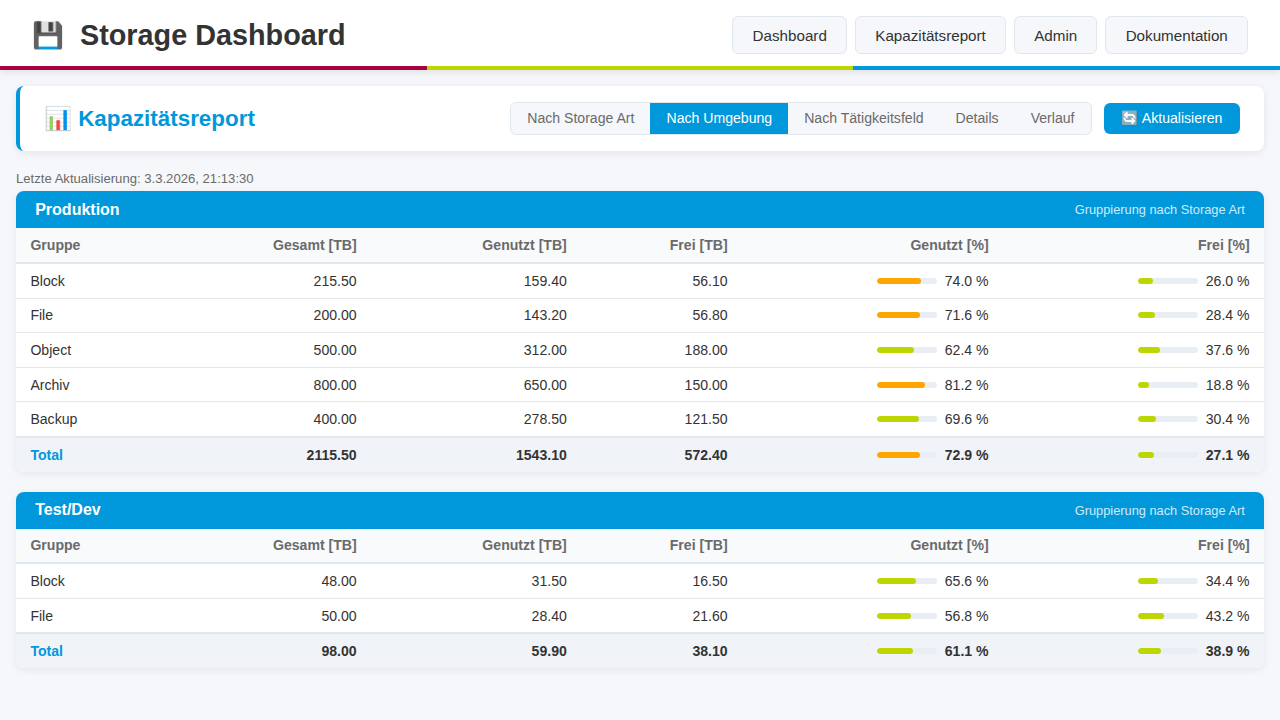
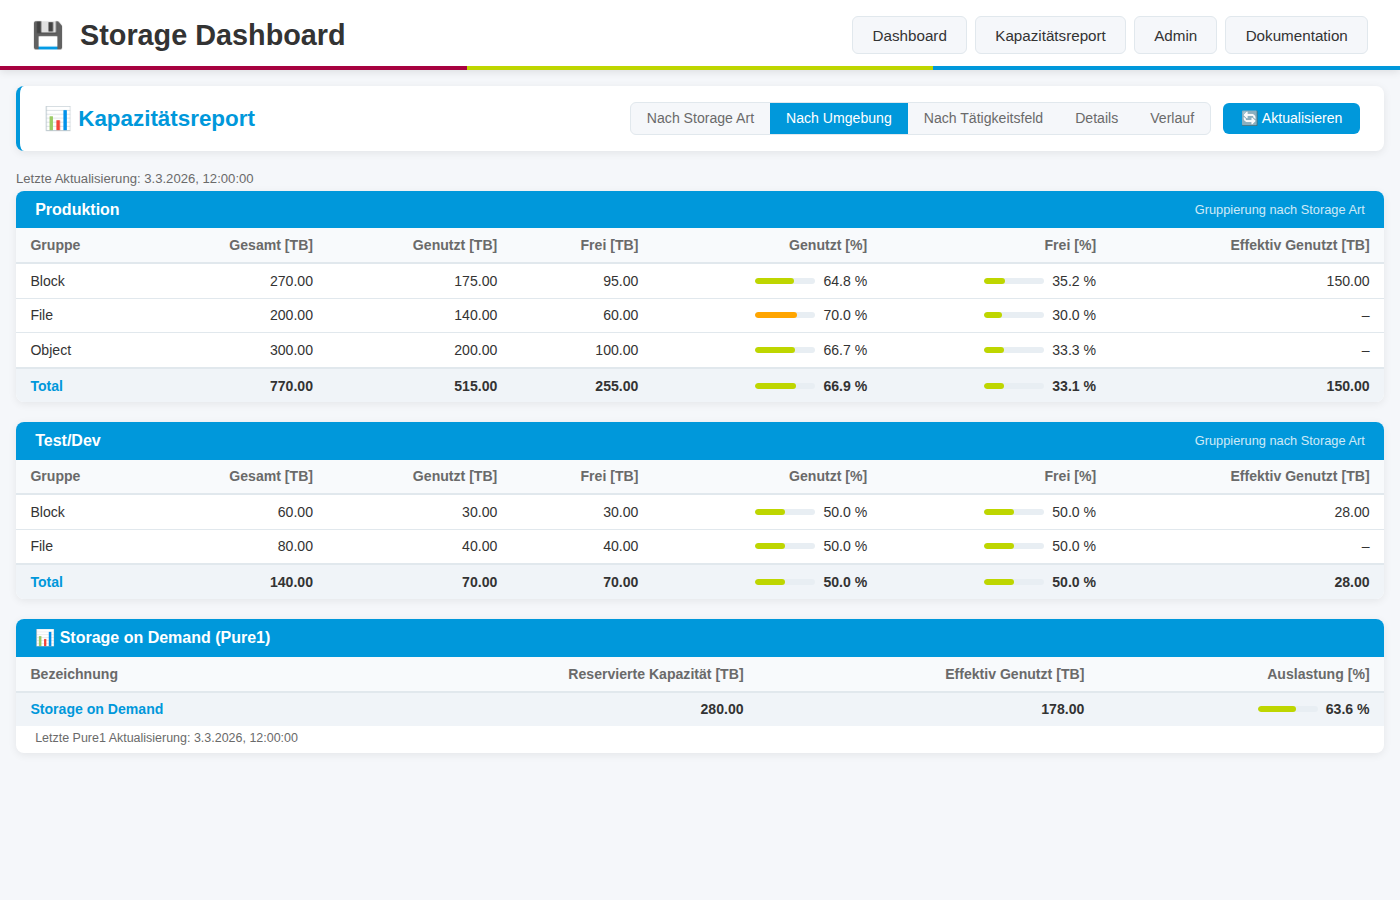
Kapazitätsseite: SoD-Zusammenfassung in Übersichtstabs; per-Zeile Effektiv-Genutzt; Screenshots aktualisiert

diff --git a/app/templates/capacity.html b/app/templates/capacity.html
@@ -494,16 +494,126 @@ function getSodResourceMap() {
     return map;
 }
 
-function buildSection(title, subtitle, rows, totalRow, sodEffectiveUsedTb) {
+/**
+ * Build per-row effective used maps from SoD resource data matched to dashboard systems.
+ * Uses capacityData.details (system names per art/env) and getSodResourceMap().
+ * Returns { byArtEnv: {art: {env: tb}}, byEnvArt: {env: {art: tb}}, byDeptLabel: {dept: {'env – art': tb}} }
+ */
+function buildSodEffUsedMaps() {
+    const empty = { byArtEnv: {}, byEnvArt: {}, byDeptLabel: {} };
+    if (!capacityData?.details || !sodData?.items || sodData.items.length === 0) return empty;
+    const sodResMap = getSodResourceMap();
+    const { byArtEnv, byEnvArt, byDeptLabel } = empty;
+
+    for (const artGroup of capacityData.details) {
+        const art = artGroup.storage_art;
+        for (const sys of artGroup.systems) {
+            const effTb = sodResMap[(sys.system_name || '').toLowerCase()];
+            if (effTb == null) continue;
+            const envs = (sys.environment || '').split(', ').filter(s => s.length > 0);
+            const depts = (sys.department || '').split(', ').filter(s => s.length > 0);
+            const envList = envs.length ? envs : ['Unbekannt'];
+            const deptList = depts.length ? depts : ['Sonstige'];
+
+            if (!byArtEnv[art]) byArtEnv[art] = {};
+            for (const env of envList) {
+                byArtEnv[art][env] = (byArtEnv[art][env] || 0) + effTb;
+            }
+            for (const env of envList) {
+                if (!byEnvArt[env]) byEnvArt[env] = {};
+                byEnvArt[env][art] = (byEnvArt[env][art] || 0) + effTb;
+            }
+            for (const dept of deptList) {
+                if (!byDeptLabel[dept]) byDeptLabel[dept] = {};
+                for (const env of envList) {
+                    const label = `${env} \u2013 ${art}`;
+                    byDeptLabel[dept][label] = (byDeptLabel[dept][label] || 0) + effTb;
+                }
+            }
+        }
+    }
+    return { byArtEnv, byEnvArt, byDeptLabel };
+}
+
+/**
+ * Build a simple SoD summary section showing one accumulated row:
+ * Reserved Capacity, Effective Used, and utilization percentage.
+ * Only the high-level totals are shown; contract/array details stay in the Details tab.
+ */
+function buildSodSummarySection(sodDataArg) {
+    let bodyHtml = '';
+    if (!sodDataArg) return '';
+
+    if (sodDataArg.error && (!sodDataArg.items || sodDataArg.items.length === 0)) {
+        bodyHtml = `<div class="sod-error-box">⚠ Fehler beim letzten Abruf: ${escHtml(sodDataArg.error)}</div>`;
+    } else if (!sodDataArg.items || sodDataArg.items.length === 0) {
+        bodyHtml = '<div style="padding:.5rem 1.2rem;color:var(--cap-muted);font-size:.85rem;">Keine SoD-Lizenzdaten vorhanden.</div>';
+    } else {
+        let totalReserved = 0, totalEffective = 0;
+        for (const it of sodDataArg.items) {
+            totalReserved += it.reservation?.data || 0;
+            totalEffective += it.usage?.data || 0;
+        }
+        totalReserved /= 1e12;
+        totalEffective /= 1e12;
+        const utilization = totalReserved > 0 ? (totalEffective / totalReserved * 100) : 0;
+        const ts = sodDataArg.fetched_at ? new Date(
+            sodDataArg.fetched_at.endsWith('Z') ? sodDataArg.fetched_at : sodDataArg.fetched_at + 'Z'
+        ).toLocaleString('de-DE') : null;
+
+        bodyHtml = `<div class="cap-table-wrap">
+            <table class="cap-table">
+                <thead><tr>
+                    <th>Bezeichnung</th>
+                    <th>Reservierte Kapazität [TB]</th>
+                    <th>Effektiv Genutzt [TB]</th>
+                    <th>Auslastung [%]</th>
+                </tr></thead>
+                <tbody>
+                    <tr class="total-row">
+                        <td>Storage on Demand</td>
+                        <td>${totalReserved.toFixed(2)}</td>
+                        <td>${totalEffective.toFixed(2)}</td>
+                        <td>${pctBarHtml(utilization)}</td>
+                    </tr>
+                </tbody>
+            </table>
+        </div>`;
+        if (ts) {
+            bodyHtml += `<div style="padding:.3rem 1.2rem .5rem;font-size:.78rem;color:var(--cap-muted);">
+                Letzte Pure1 Aktualisierung: ${ts}
+            </div>`;
+        }
+    }
+    return `<div class="cap-section">
+        <div class="cap-section-header">
+            <span>📊 Storage on Demand (Pure1)</span>
+        </div>
+        ${bodyHtml}
+    </div>`;
+}
+
+function buildSection(title, subtitle, rows, totalRow, sodRowEffMap) {
     const showProvisioned = hasProvisioned(rows, totalRow);
-    const showEffectiveUsed = sodEffectiveUsedTb != null;
+
+    let showEffectiveUsed = false;
+    let effTotal = null;
+    if (pure1Configured && sodRowEffMap) {
+        let sum = 0, hasAny = false;
+        for (const r of rows) {
+            const v = sodRowEffMap[r.label];
+            if (v != null) { sum += v; hasAny = true; }
+        }
+        if (hasAny) { effTotal = sum; showEffectiveUsed = true; }
+    }
+
     const rowsHtml = rows.map(r => rowHtml(
         r.label, r, false, showProvisioned,
-        showEffectiveUsed, null   // column visible but no value for sub-rows
+        showEffectiveUsed, sodRowEffMap ? (sodRowEffMap[r.label] ?? null) : null
     )).join('');
     const totalHtml = rowHtml(
         'Total', totalRow, true, showProvisioned,
-        showEffectiveUsed, showEffectiveUsed ? sodEffectiveUsedTb : null
+        showEffectiveUsed, effTotal
     );
     return `<div class="cap-section">
         <div class="cap-section-header">
@@ -622,35 +732,45 @@ function renderByStorageArt(data) {
         el.innerHTML = '<div class="cap-empty">Keine Daten verfügbar. Bitte Systeme konfigurieren und Aktualisierung abwarten.</div>';
         return;
     }
-    const sodTotal = getSodTotalEffectiveUsedTb();
-    el.innerHTML = data.map(g => {
-        const isBlock = g.storage_art === 'Block';
-        const effUsed = (isBlock && pure1Configured) ? sodTotal : null;
+    const effMaps = buildSodEffUsedMaps();
+    let html = data.map(g => {
+        const sodRowEffMap = pure1Configured ? (effMaps.byArtEnv[g.storage_art] || null) : null;
         const showProvisioned = hasProvisioned(g.rows, g.total);
-        const showEffectiveUsed = effUsed != null;
+
+        let showEffectiveUsed = false;
+        let effTotal = null;
+        if (sodRowEffMap) {
+            let sum = 0, hasAny = false;
+            for (const r of g.rows) {
+                const v = sodRowEffMap[r.label];
+                if (v != null) { sum += v; hasAny = true; }
+            }
+            if (hasAny) { effTotal = sum; showEffectiveUsed = true; }
+        }
+
         const rowsHtml = g.rows.map(r => rowHtml(
             r.label, r, false, showProvisioned,
-            showEffectiveUsed, null
+            showEffectiveUsed, sodRowEffMap ? (sodRowEffMap[r.label] ?? null) : null
         )).join('');
         const totalHtml = rowHtml(
             'Total', g.total, true, showProvisioned,
-            showEffectiveUsed, showEffectiveUsed ? effUsed : null
+            showEffectiveUsed, effTotal
         );
-        const tableHtml = `<div class="cap-table-wrap">
-            <table class="cap-table">
-                ${tableHeader('Gruppe', showProvisioned, showEffectiveUsed)}
-                <tbody>${rowsHtml}${totalHtml}</tbody>
-            </table>
-        </div>`;
-        const sodHtml = (isBlock && pure1Configured) ? buildSodSubTable(sodData) : '';
         return `<div class="cap-section">
             <div class="cap-section-header">
                 <span>${escHtml(g.storage_art)}</span>
                 <span class="section-subtitle">Gruppierung nach Betriebsumgebung</span>
             </div>
-            ${tableHtml}${sodHtml}
+            <div class="cap-table-wrap">
+                <table class="cap-table">
+                    ${tableHeader('Gruppe', showProvisioned, showEffectiveUsed)}
+                    <tbody>${rowsHtml}${totalHtml}</tbody>
+                </table>
+            </div>
         </div>`;
     }).join('');
+    if (pure1Configured) html += buildSodSummarySection(sodData);
+    el.innerHTML = html;
 }
 
 // ── Render: By Environment ────────────────────────────────────────────────
@@ -660,9 +780,13 @@ function renderByEnvironment(data) {
         el.innerHTML = '<div class="cap-empty">Keine Daten verfügbar.</div>';
         return;
     }
-    el.innerHTML = data.map(g =>
-        buildSection(g.environment, 'Gruppierung nach Storage Art', g.rows, g.total)
-    ).join('');
+    const effMaps = buildSodEffUsedMaps();
+    let html = data.map(g => {
+        const sodRowEffMap = pure1Configured ? (effMaps.byEnvArt[g.environment] || null) : null;
+        return buildSection(g.environment, 'Gruppierung nach Storage Art', g.rows, g.total, sodRowEffMap);
+    }).join('');
+    if (pure1Configured) html += buildSodSummarySection(sodData);
+    el.innerHTML = html;
 }
 
 // ── Render: By Department ─────────────────────────────────────────────────
@@ -672,9 +796,13 @@ function renderByDepartment(data) {
         el.innerHTML = '<div class="cap-empty">Keine Daten verfügbar.</div>';
         return;
     }
-    el.innerHTML = data.map(g =>
-        buildSection(g.department, 'Umgebung × Storage Art', g.rows, g.total)
-    ).join('');
+    const effMaps = buildSodEffUsedMaps();
+    let html = data.map(g => {
+        const sodRowEffMap = pure1Configured ? (effMaps.byDeptLabel[g.department] || null) : null;
+        return buildSection(g.department, 'Umgebung × Storage Art', g.rows, g.total, sodRowEffMap);
+    }).join('');
+    if (pure1Configured) html += buildSodSummarySection(sodData);
+    el.innerHTML = html;
 }
 
 // ── Render: Details ───────────────────────────────────────────────────────

diff --git a/README.md b/README.md
@@ -41,7 +41,7 @@ Ein Python-basiertes Dashboard zur Überwachung von Storage-Systemen verschieden
 - **Multi-Vendor Support**: Überwachung von Pure Storage, NetApp ONTAP 9, NetApp StorageGRID 11 und Dell DataDomain
 - **Web Dashboard**: Übersichtliche Card/Grid-Ansicht aller Storage-Systeme
 - **Kapazitätsreport**: Tabellarische Kapazitätsübersicht aller Systeme unter `/capacity/` – gruppiert nach Storage Art (**Block → File → Object → Archiv → Backup**), Umgebung oder Tätigkeitsfeld, mit Verlaufsgraphen und Wachstumsprognose
-- **Storage on Demand (Pure1)**: Bei konfigurierter Pure1 API wird im Block-Bereich des Kapazitätsreports eine aufklappbare Untertabelle mit Subscription-Lizenzdaten (Reserviert, Effektiv Genutzt, On Demand) angezeigt. Zusätzlich erscheint in der Block-Tabelle eine Spalte **„Effektiv Genutzt [TB]"** mit den Pure1-Effektivwerten (nach Deduplikation/Komprimierung):
+- **Storage on Demand (Pure1)**: Bei konfigurierter Pure1 API wird in allen Kapazitätsansichten (Nach Storage Art, Nach Umgebung, Nach Tätigkeitsfeld) eine kompakte SoD-Zusammenfassung angezeigt (Reservierte Kapazität, Effektiv Genutzt, Auslastung [%]). Die Kapazitätstabellen zeigen zusätzlich eine Spalte **„Effektiv Genutzt [TB]"**, die die Pure1-Effektivwerte (nach Deduplikation/Komprimierung) pro Zeile summiert. Vollständige Detailinformationen (Verträge, Lizenzen, Arrays) sind im Tab **Details** verfügbar:
   - Wöchentlich automatisch abgerufen, manuell per Knopfdruck aktualisierbar
   - Wird nur angezeigt, wenn Pure1 in den Einstellungen konfiguriert ist
 - **Pure1 API-Integration**: Konfiguration im Admin-Bereich unter **Einstellungen → API-Zugänge**; dynamische JWT-Authentifizierung (RS256) gegen die Pure1 REST API; Private Key Passphrase wird verschlüsselt gespeichert
@@ -339,20 +339,20 @@ Der Einstellungs-Bereich ist in Tabs unterteilt:
 
 Der Kapazitätsreport bietet eine umfassende tabellarische und grafische Auswertung der Speicherkapazitäten aller konfigurierten Systeme. Die Daten werden stündlich im Hintergrund aktualisiert und täglich historisch gespeichert.
 
-**6 wechselbare Ansichten:**
+**5 wechselbare Ansichten:**
 
 | Ansicht | Beschreibung |
 |---------|-------------|
-| **Nach Storage Art** | Eine Tabelle pro Storage-Typ (Block, File, Object, Archiv, Backup) mit je einer Zeile pro Betriebsumgebung (Produktion / Test/Dev) und einer Total-Zeile |
-| **Nach Umgebung** | Eine Tabelle pro Umgebung (Produktion, Test/Dev) mit Zeilen je Storage-Typ und Total |
-| **Nach Tätigkeitsfeld** | Eine Tabelle pro Abteilung/Tätigkeitsfeld (ERZ, ITS, EH …) mit Zeilen für jede Umgebung × Storage-Typ-Kombination |
-| **Details** | Alle Einzelsysteme mit Name, Umgebung, Tätigkeitsfeld und Kapazitätswerten, gruppiert nach Storage-Typ |
-| **Verlauf** | Liniendiagramme pro Storage-Typ (Genutzt [TB] / Gesamt [TB]) mit wählbarem Zeitraum (Alle / 2J / 1J / 6M / 3M) und linearer Wachstumsprognose als gestrichelte Linie |
-| **Storage on Demand** *(nur bei konfiguriertem Pure1)* | Zeigt Pure1 Subscription-Lizenzdaten: Reserviert, Effective Used und On-Demand-Verbrauch pro Array; Daten werden wöchentlich automatisch abgerufen und können manuell per „🔄 Jetzt abrufen"-Button aktualisiert werden |
+| **Nach Storage Art** | Eine Tabelle pro Storage-Typ (Block, File, Object, Archiv, Backup) mit je einer Zeile pro Betriebsumgebung (Produktion / Test/Dev) und einer Total-Zeile. Bei konfigurierter Pure1 API erscheint am Ende der Seite eine kompakte **Storage on Demand**-Zusammenfassung (Reserviert, Effektiv Genutzt, Auslastung). |
+| **Nach Umgebung** | Eine Tabelle pro Umgebung (Produktion, Test/Dev) mit Zeilen je Storage-Typ und Total. Enthält ebenfalls die Pure1 SoD-Zusammenfassung am Ende. |
+| **Nach Tätigkeitsfeld** | Eine Tabelle pro Abteilung/Tätigkeitsfeld mit Zeilen für jede Umgebung × Storage-Typ-Kombination. Enthält ebenfalls die Pure1 SoD-Zusammenfassung am Ende. |
+| **Details** | Alle Einzelsysteme mit Name, Umgebung, Tätigkeitsfeld und Kapazitätswerten, gruppiert nach Storage-Typ. Im Block-Bereich zusätzlich eine aufklappbare Untertabelle mit vollständigen Pure1 SoD-Lizenzdaten (Reserviert, Effektiv Genutzt, On Demand, Arrays). |
+| **Verlauf** | Liniendiagramme pro Storage-Typ (Genutzt [TB] / Gesamt [TB]) mit wählbarem Zeitraum (Alle / 2J / 1J / 6M / 3M) und linearer Wachstumsprognose als gestrichelte Linie. |
 
 **Spalten in den Kapazitätstabellen:**
 - Gesamt [TB], Genutzt [TB], Frei [TB]
 - Genutzt [%], Frei [%] – mit farbigen Balkenanzeigen (grün / orange / rot)
+- **Effektiv Genutzt [TB]** *(nur bei konfiguriertem Pure1)* – aus den Pure1 API-Daten je Array, auf die jeweilige Gruppe summiert
 
 **Beispieldaten laden:**
 ```bash
@@ -365,9 +365,13 @@ python examples/seed_demo_data.py
 
 Das Skript legt 17 Demo-Systeme (Block, File, Archiv, Object, Backup) mit 2 Jahren täglicher Verlaufshistorie an.
 
-### Pure1 Storage on Demand (`/capacity/` → Tab „Storage on Demand")
+### Pure1 Storage on Demand (`/capacity/`)
 
-Der **Storage on Demand**-Tab zeigt Pure1 Subscription-Lizenzdaten direkt im Kapazitätsreport.
+**Storage on Demand (SoD)** integriert Pure1 Subscription-Lizenzdaten direkt in den Kapazitätsreport.
+
+**Anzeige im Kapazitätsreport:**
+- **Zusammenfassungsansichten** (Nach Storage Art, Nach Umgebung, Nach Tätigkeitsfeld): Eine kompakte SoD-Zusammenfassungszeile am Ende jeder Seite mit den kumulierten Werten über alle Verträge: Reservierte Kapazität [TB], Effektiv Genutzt [TB] und Auslastung [%]. Die Kapazitätstabellen zeigen zusätzlich in der Spalte **„Effektiv Genutzt [TB]"** die auf die jeweilige Gruppe (z. B. Betriebsumgebung) summierten Pure1-Effektivwerte.
+- **Details-Tab**: Vollständige SoD-Detailinformationen im Block-Bereich als aufklappbare Untertabelle mit Verträgen, Lizenzen, Service-Tiers und Effektivwerten je Array.
 
 **Einrichtung:**
 1. Navigieren Sie zu `/admin/settings` und öffnen Sie den Tab **🔑 API-Zugänge**
@@ -375,15 +379,15 @@ Der **Storage on Demand**-Tab zeigt Pure1 Subscription-Lizenzdaten direkt im Kap
 3. Fügen Sie den **RSA Private Key** im PEM-Format ein (inkl. `-----BEGIN / END-----`-Zeilen)
 4. Optional: Tragen Sie die **Passphrase** ein, falls der Private Key passwortgeschützt ist
 5. Optional: Fügen Sie den **Public Key** im PEM-Format ein
-6. Speichern – der **Storage on Demand**-Tab erscheint nun automatisch im Kapazitätsreport
+6. Speichern – SoD-Daten erscheinen nun automatisch im Kapazitätsreport
 
 ![Einstellungen – Pure1 API-Zugänge](screenshots/settings-api-access-pure1.png)
 
 **Daten-Abruf:**
 - Daten werden **wöchentlich automatisch** durch den Hintergrund-Dienst abgerufen
-- Manuelle Aktualisierung jederzeit per **„🔄 Jetzt abrufen"**-Button im Tab
+- Manuelle Aktualisierung jederzeit per **„🔄 Jetzt abrufen"**-Button im Details-Tab
 - Bei Konfigurationsfehlern oder Netzwerkproblemen wird ein klarer Hinweis angezeigt
-- Ist Pure1 nicht konfiguriert, bleibt der Tab ausgeblendet
+- Ist Pure1 nicht konfiguriert, werden keine SoD-Bereiche angezeigt
 
 ### Zertifikatsverwaltung (`/admin/certificates`)
 
